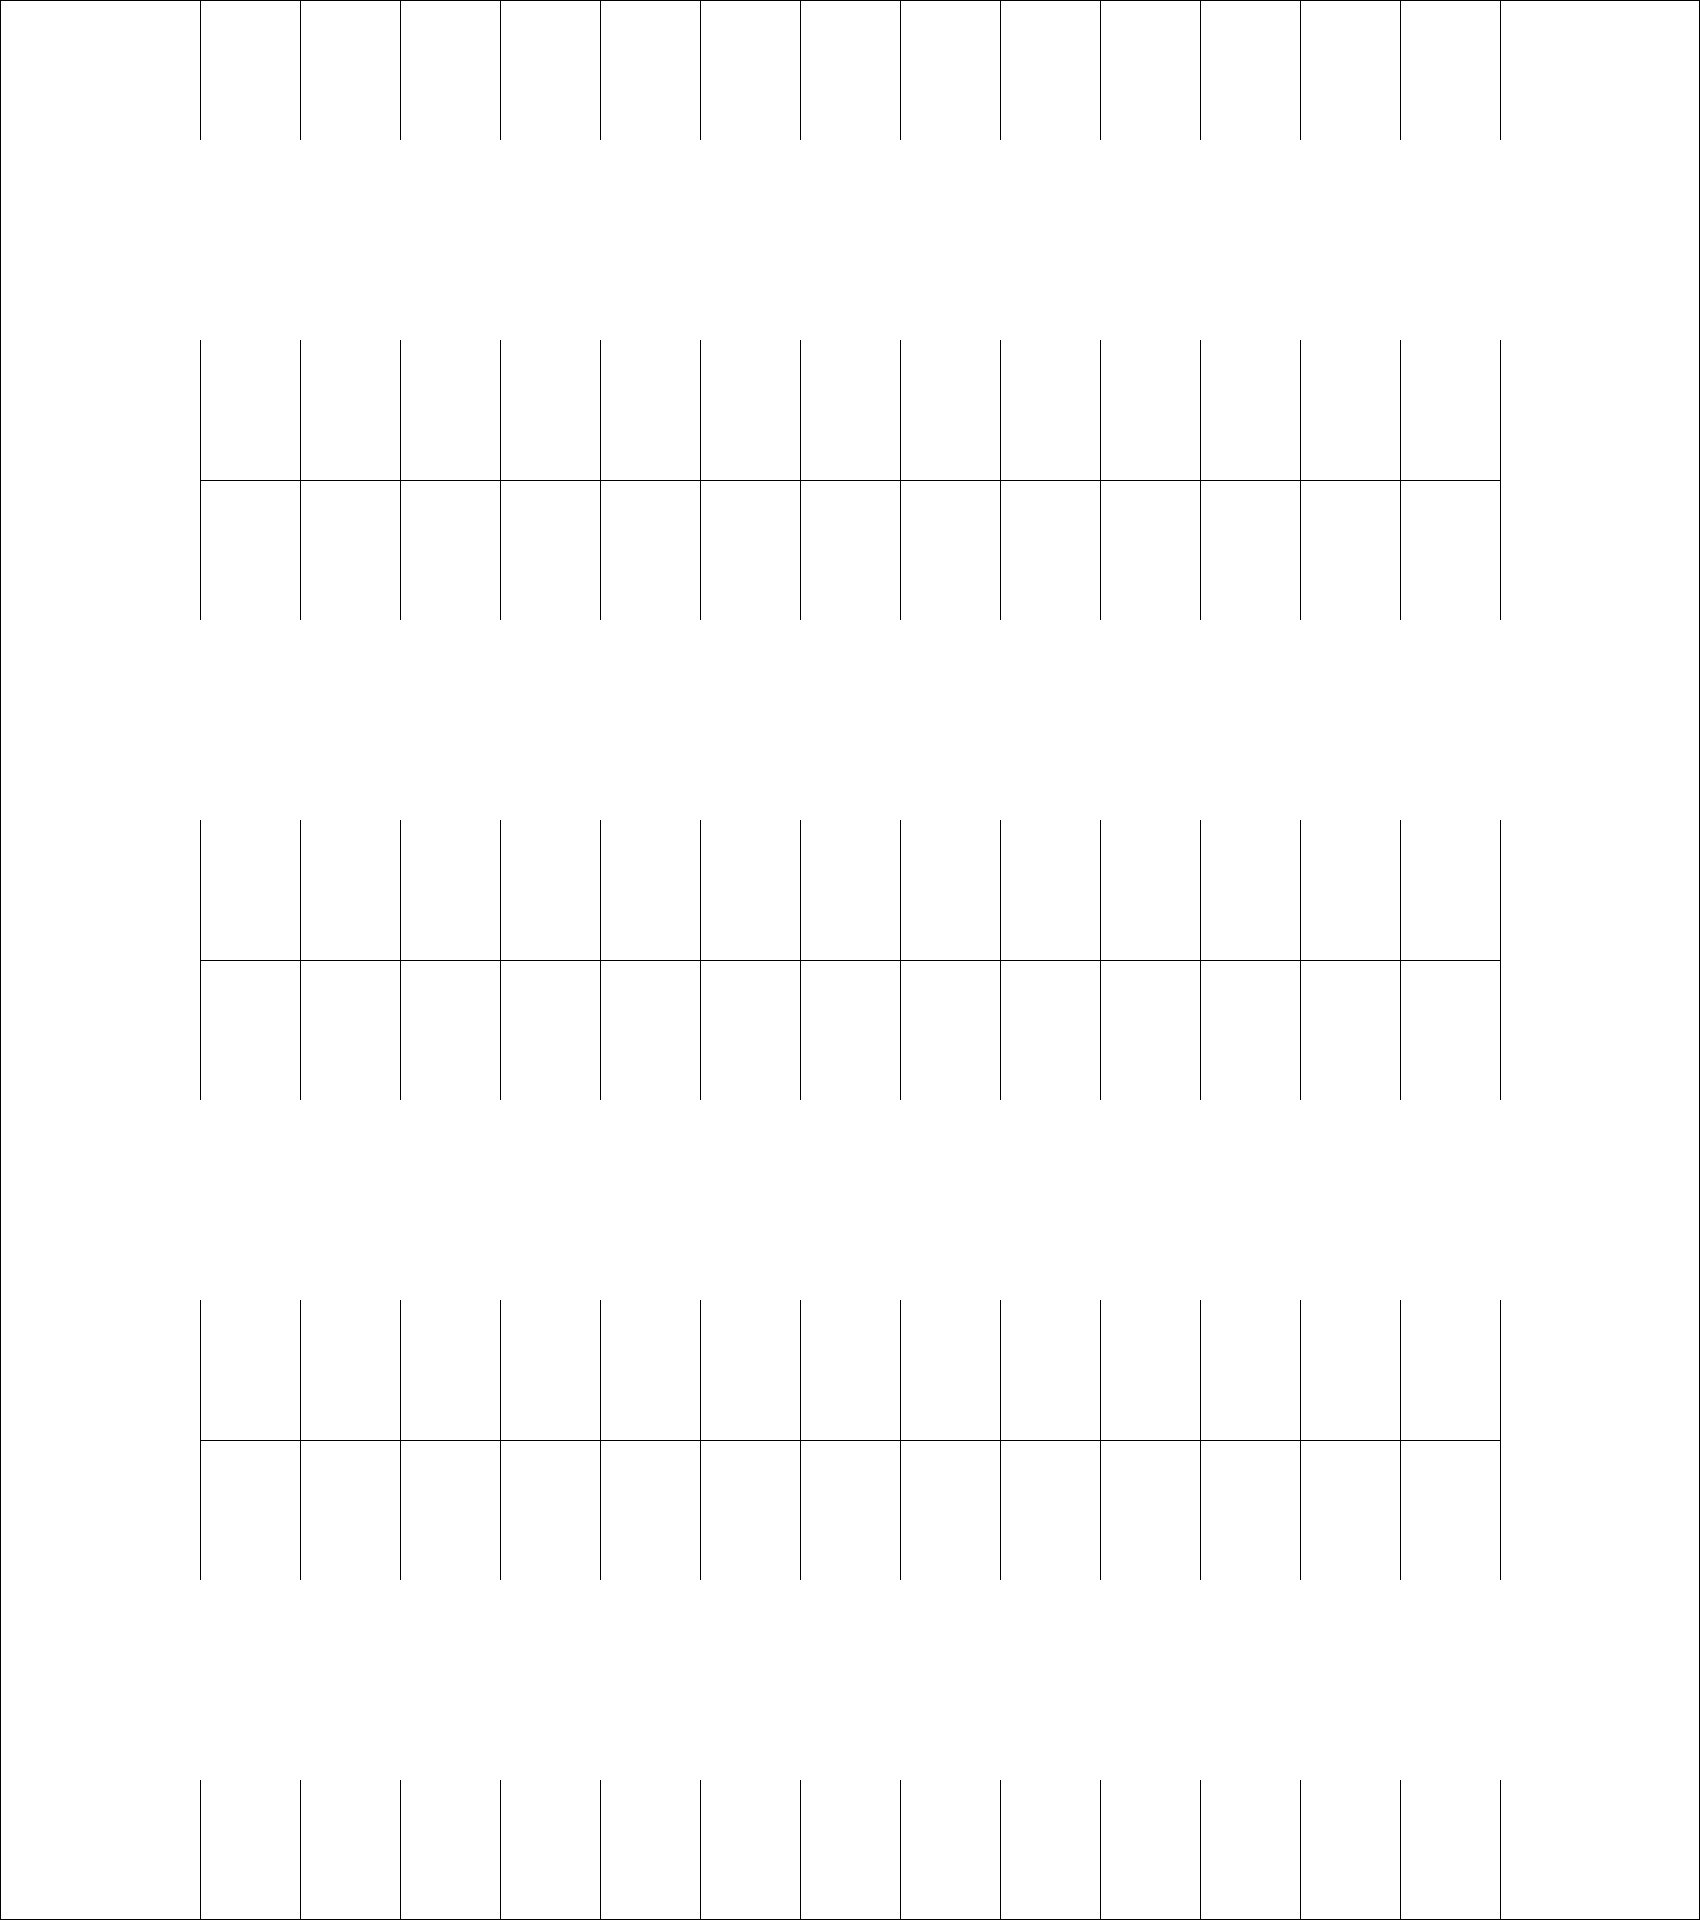
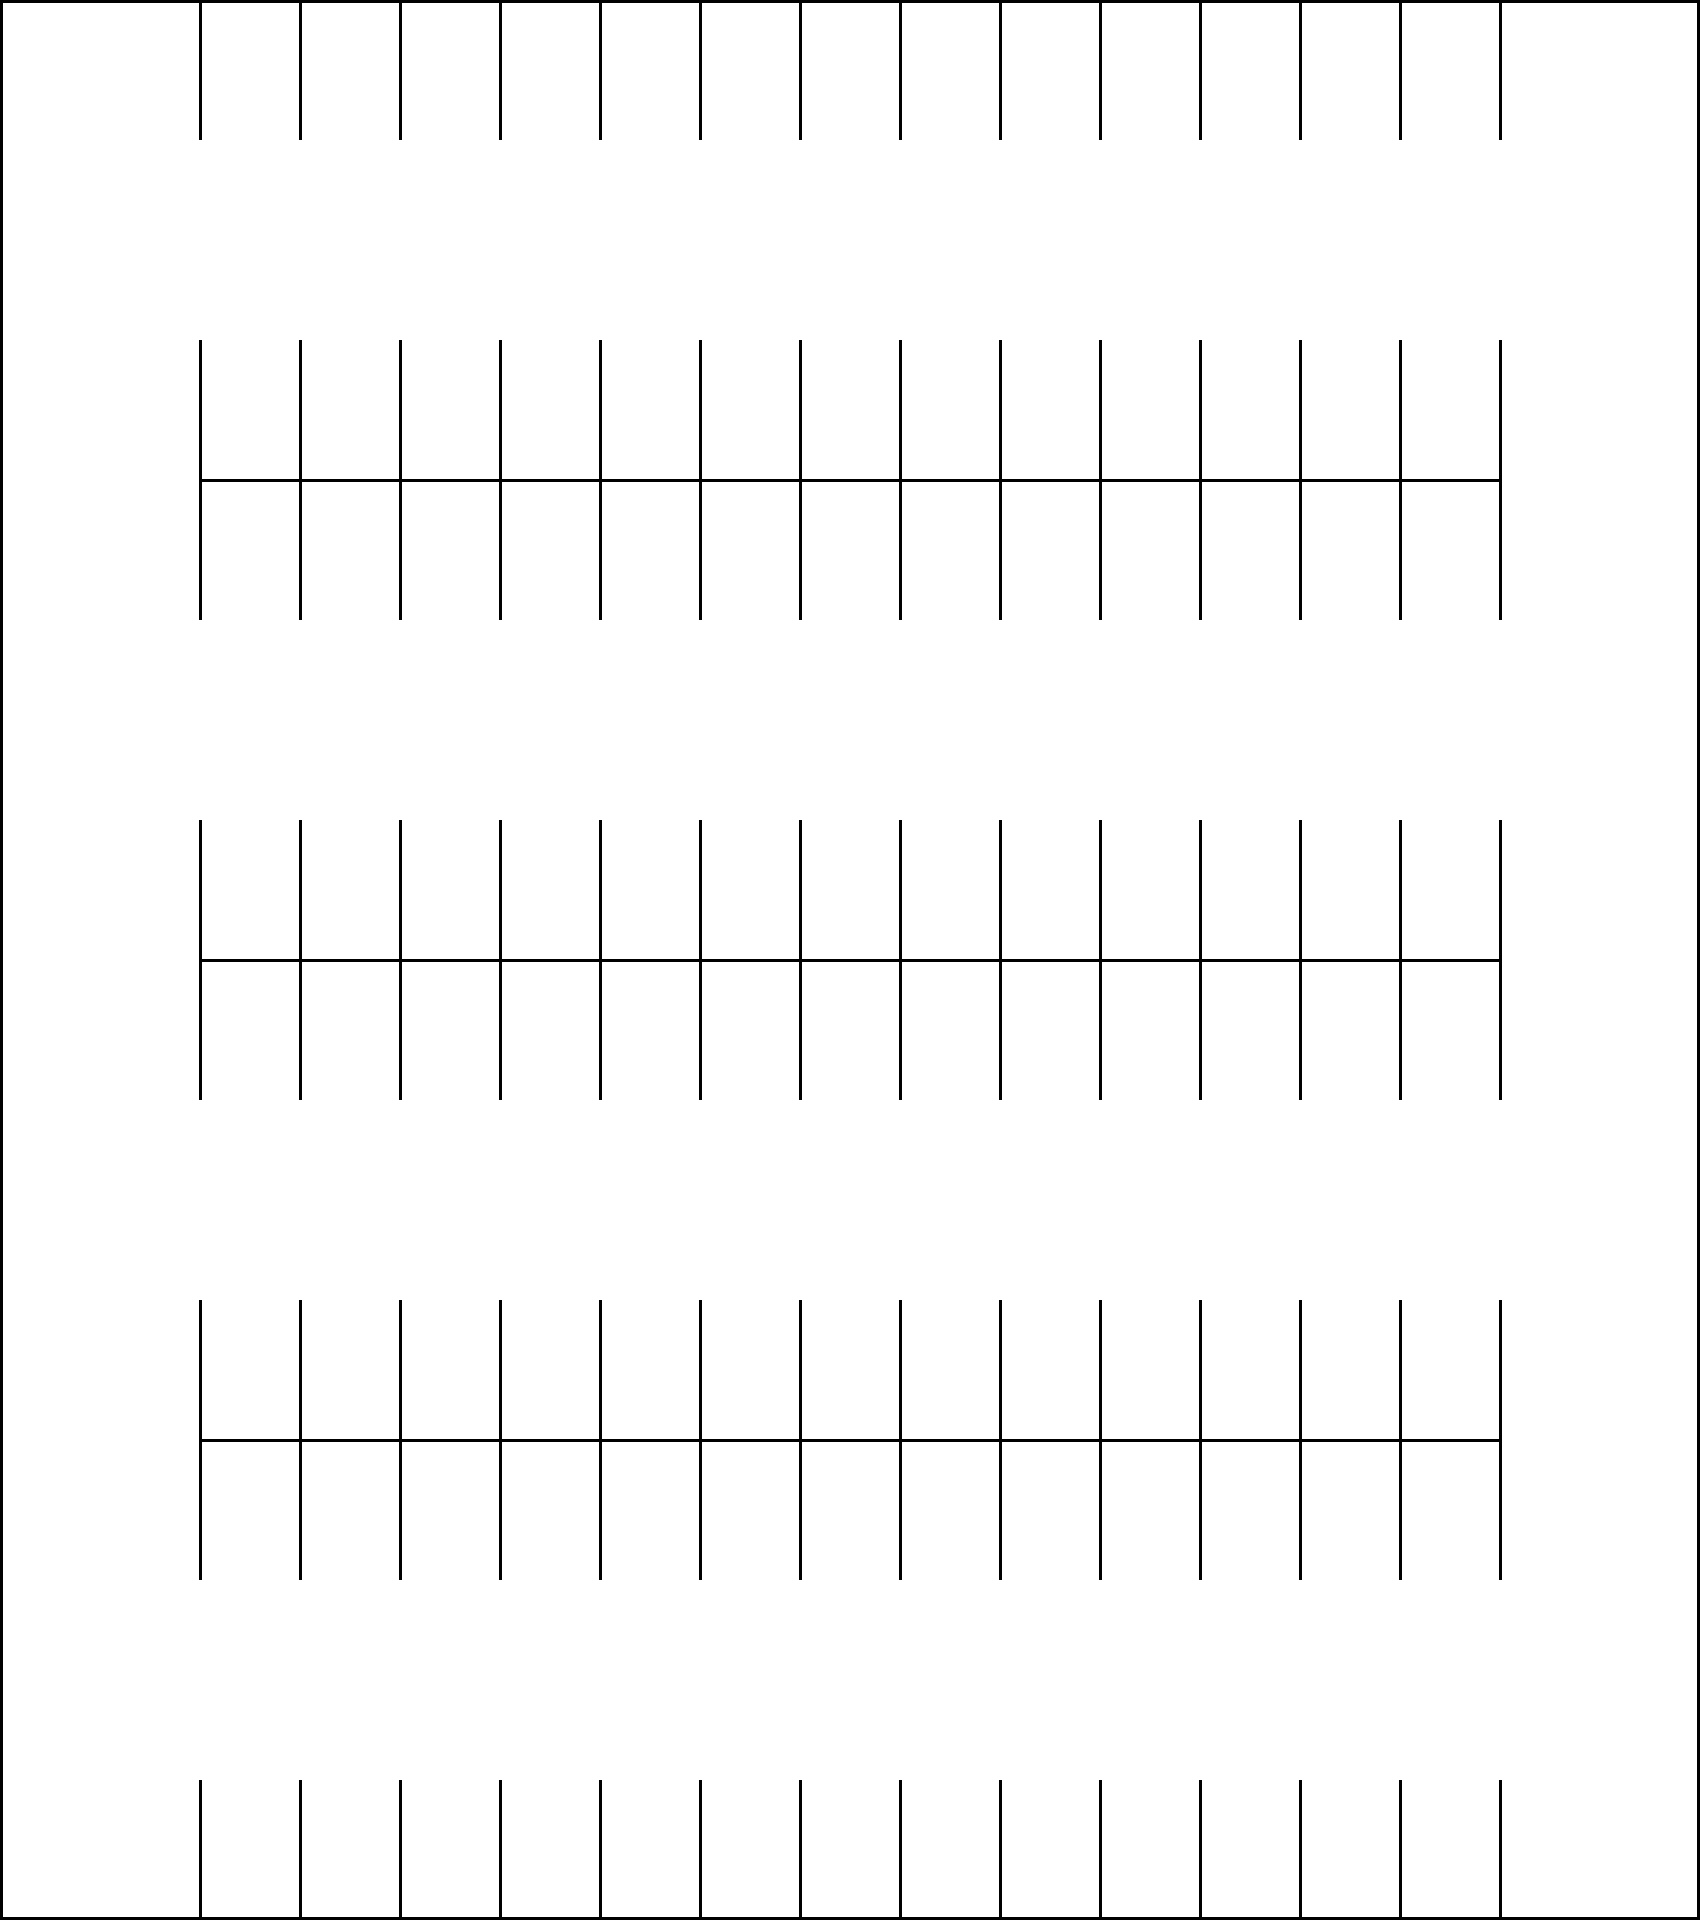
Edit Map

Changed region(s): [[0.9976, 0.0, 1.0, 1.0]]

diff --git a/simulation/environment/create_map.py b/simulation/environment/create_map.py
@@ -5,20 +5,20 @@ import numpy as np
 
 im = np.zeros((1920, 1700, 1), np.uint8)
 im[:, :] = 255
-im[:, 0] = 0
-im[:, 1699] = 0
-im[0, :] = 0
-im[1919, :] = 0
+im[:, 0:3] = 0
+im[:, 1697:] = 0
+im[0:3, :] = 0
+im[1917:, :] = 0
 
 for i in xrange(200, 1550, 100):
-    im[0:140, i] = 0
-    im[340:620, i] = 0
-    im[820:1100, i] = 0
-    im[1300:1580, i] = 0
-    im[1780:1920, i] = 0
+    im[0:140, i-1:i+2] = 0
+    im[340:620, i-1:i+2] = 0
+    im[820:1100, i-1:i+2] = 0
+    im[1300:1580, i-1:i+2] = 0
+    im[1780:1920, i-1:i+2] = 0
 
 for i in range(480, 1920, 480):
-    im[i, 200:1500] = 0
+    im[i-1:i+2, 200:1500] = 0
 
 cv2.imwrite("map.jpg", im)
 
@@ -37,4 +37,4 @@ with open("Spots.txt", "w") as text_file:
     for i in range(250, 1500, 100):
         string_spot = str(i/40) + " " + str(1850/40)
         text_file.write("{0} Empty\n".format(string_spot))
-        
+
